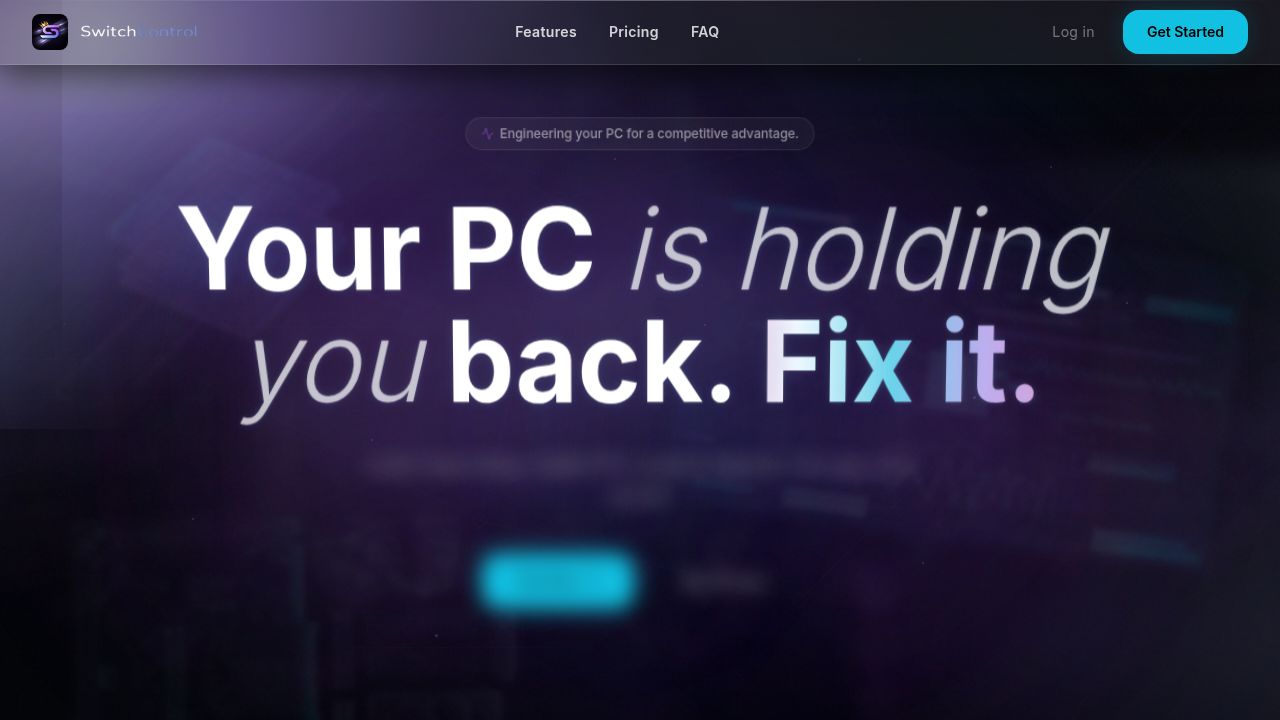
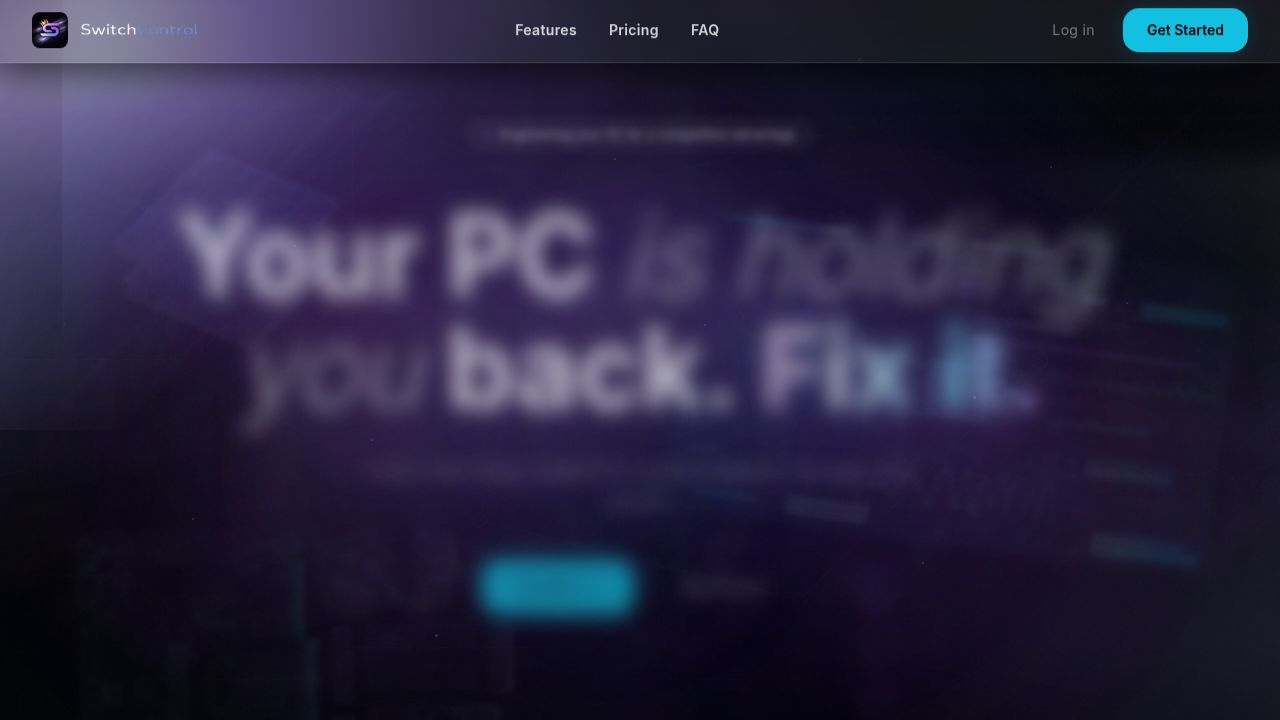
Remove distracting visual sun streaks from the landing page
Remove CSS classes and JSX elements related to sun streaks from the landing page and its associated stylesheet.

Replit-Commit-Author: Agent
Replit-Commit-Session-Id: ec7b139a-26ca-474e-abd9-8383d3e9f2bb
Replit-Commit-Checkpoint-Type: full_checkpoint
Replit-Commit-Event-Id: b164beb7-c5e4-4027-9472-91ec321785f3
Replit-Commit-Screenshot-Url: https://storage.googleapis.com/screenshot-production-us-central1/dc84e65c-c0b5-47cf-9123-30d63e00b4a1/ec7b139a-26ca-474e-abd9-8383d3e9f2bb/fqWTQqJ
Replit-Helium-Checkpoint-Created: true

diff --git a/client/src/index.css b/client/src/index.css
@@ -1489,83 +1489,6 @@ textarea,
   transform-origin: center center;
 }
 
-/* Sun streak beams for feature cards — positioned from a zero-height wrapper between sections */
-.sun-streak {
-  position: absolute;
-  pointer-events: none;
-  opacity: 0;
-  animation: sunStreakFade 5s ease-in-out infinite;
-}
-
-.sun-streak-left {
-  top: -400px;
-  left: 5%;
-  width: 200px;
-  height: 800px;
-  transform: rotate(22deg);
-  transform-origin: top center;
-  background: linear-gradient(
-    90deg,
-    transparent 0%,
-    rgba(180, 210, 255, 0.02) 15%,
-    rgba(200, 220, 255, 0.06) 35%,
-    rgba(255, 255, 255, 0.09) 50%,
-    rgba(200, 220, 255, 0.06) 65%,
-    rgba(180, 210, 255, 0.02) 85%,
-    transparent 100%
-  );
-  filter: blur(24px);
-  animation-delay: 0s;
-}
-
-.sun-streak-center {
-  top: -500px;
-  left: 50%;
-  transform: translateX(-50%);
-  width: 180px;
-  height: 900px;
-  background: linear-gradient(
-    90deg,
-    transparent 0%,
-    rgba(180, 210, 255, 0.02) 15%,
-    rgba(200, 230, 255, 0.07) 35%,
-    rgba(255, 255, 255, 0.10) 50%,
-    rgba(200, 230, 255, 0.07) 65%,
-    rgba(180, 210, 255, 0.02) 85%,
-    transparent 100%
-  );
-  filter: blur(28px);
-  animation-delay: 0.5s;
-}
-
-.sun-streak-right {
-  top: -400px;
-  right: 5%;
-  width: 200px;
-  height: 800px;
-  transform: rotate(-22deg);
-  transform-origin: top center;
-  background: linear-gradient(
-    90deg,
-    transparent 0%,
-    rgba(180, 210, 255, 0.02) 15%,
-    rgba(200, 220, 255, 0.06) 35%,
-    rgba(255, 255, 255, 0.09) 50%,
-    rgba(200, 220, 255, 0.06) 65%,
-    rgba(180, 210, 255, 0.02) 85%,
-    transparent 100%
-  );
-  filter: blur(24px);
-  animation-delay: 1s;
-}
-
-@keyframes sunStreakFade {
-  0% { opacity: 0; }
-  20% { opacity: 1; }
-  50% { opacity: 1; }
-  70% { opacity: 0; }
-  100% { opacity: 0; }
-}
 
 /* Scroll indicator dot */
 @keyframes scrollDot {

diff --git a/client/src/pages/Landing.tsx b/client/src/pages/Landing.tsx
@@ -586,13 +586,6 @@ export default function Landing() {
 
         </section>
 
-        {/* ──── Sun streaks targeting feature cards — lives outside section to avoid clipping ──── */}
-        <div className="hidden md:block pointer-events-none relative" aria-hidden="true" style={{ height: 0, overflow: 'visible', zIndex: 0 }}>
-          <div className="sun-streak sun-streak-left" />
-          <div className="sun-streak sun-streak-center" />
-          <div className="sun-streak sun-streak-right" />
-        </div>
-
         {/* ──── Feature Strip + Stats (unified section) ──── */}
         <section className="relative pb-12 md:pb-16 -mt-24 pt-24" data-reveal>
           <div className="absolute inset-0 pointer-events-none" style={{ background: "radial-gradient(ellipse 80% 60% at 50% 20%, hsl(270 50% 45% / 0.05) 0%, transparent 70%)" }} />
